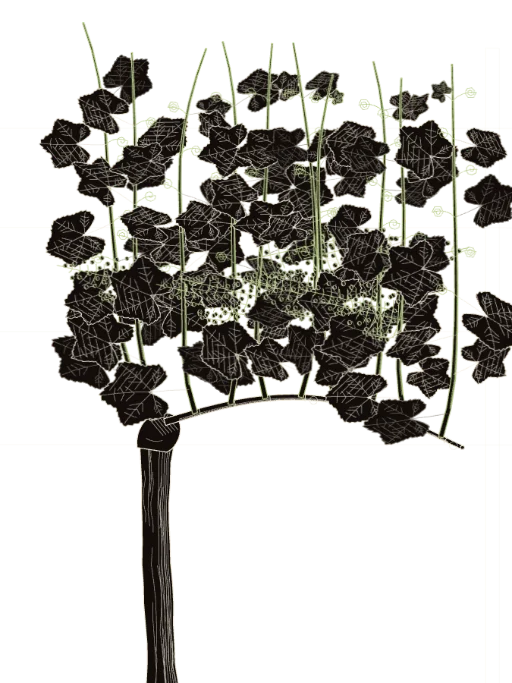
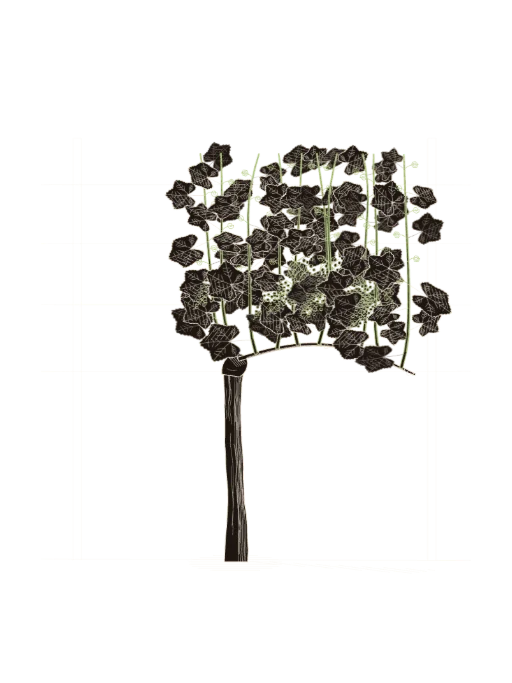
Spazio: pannelli come tavole montate, nome in Bodoni, fase più pulita
- anteprime rigenerate: inquadratura della stagione con zoom limitato (soggetto centrato,
  pianta mai tagliata a caso), forme riempite del colore della carta, tavola montata con
  margini e fascia libera per il nome; fermo-immagine al momento più rappresentativo
- nome della fase nel pannello in Bodoni Moda corsivo, allineato al bordo della tavola
- arco: pannelli più grandi e più distanziati, laterali nitidi e più bassi di tono, il
  centrale si fa avanti sotto il cursore; vigneto senza filo e linee compensate sugli
  schermi densi
- fase: fili e suolo del filare sfumano oltre i due pali, la pianta si sposta a destra
  (regia 62%) e la colonna dei titoli scende a sei colonne
- corretto il movimento ridotto: annullava la posizione dei grappoli (ora solo i tralci che cadono)

Claude-Session: https://claude.ai/code/session_01KQx1i4E29DbznxtBohKRiM

diff --git a/src/spazio/motore.ts b/src/spazio/motore.ts
@@ -7,7 +7,7 @@ import { FASI } from '@/core/tempo'
 import { FILM } from '@/components/film/registro'
 import { spazio } from './stato'
 import { PANNELLO_F, PANNELLO_V, SUOLO_F, SUOLO_V, TERRA_F, TERRA_V, VELO_F, VELO_V } from './shader'
-import { ASPETTO_CELLA, CELLE, VUOTA, caricaTexture, libera, ritaglio, textureNome, urlCiclo, urlFermo } from './texture'
+import { ASPETTO_CELLA, CELLE, FONT_NOME, PX_NOME, VUOTA, caricaTexture, libera, ritaglio, textureNome, urlCiclo, urlFermo } from './texture'
 
 /*
  * IL MOTORE DELLO SPAZIO: un solo canvas WebGL, un solo ciclo (core/ciclo.ts, il ticker di GSAP).
@@ -44,7 +44,7 @@ export type Disposizione = {
 export function disposizione(vw: number): Disposizione {
   return vw < 760
     ? { stretto: true, fov: 40, R: 3.6, vicino: 0.12, D: -0.7, w: 0.75, h: 1, passo: 0.8, camY: 0.12, guardaY: -0.1, suoloY: -0.74, kRiposo: 0.55 }
-    : { stretto: false, fov: 34, R: 5.2, vicino: 0.25, D: -1.4, w: 0.75, h: 1, passo: 0.88, camY: 0.26, guardaY: 0.0, suoloY: -0.74, kRiposo: 0.6 }
+    : { stretto: false, fov: 34, R: 5.2, vicino: 0.25, D: -1.9, w: 0.75, h: 1, passo: 0.95, camY: 0.24, guardaY: -0.02, suoloY: -0.72, kRiposo: 0.6 }
 }
 
 /** quanto i pannelli laterali si voltano verso il centro, oltre l'orientamento dell'arco */
@@ -130,6 +130,7 @@ class Motore {
   curva = molla()
   piega = molla()
   ritardo = molla()
+  avanti = molla()
   // lanterna
   mouse = { x: -1e4, y: -1e4, tx: -1e4, ty: -1e4, forza: 0, bersaglio: 0, ok: false }
   focus = -1
@@ -223,10 +224,9 @@ class Motore {
     const hPalo = 0.5
     for (let f = 0; f < nFile; f++) {
       const x = -largo / 2 + (f + 0.5) * passoFila
-      // filare a terra e filo, in tratti corti: un segmento lungo che passa dietro la camera si perde nel ritaglio
+      // filare a terra, in tratti corti: un segmento lungo che passa dietro la camera si perde nel ritaglio
       for (let z = 3; z > -lungo; z -= 2) {
         v.push(x, 0, z, x, 0, z - 2)
-        v.push(x, hPalo, z, x, hPalo, z - 2)
       }
       for (let z = 3 - ((f * 0.37) % passoPali); z > -lungo * 0.65; z -= passoPali) v.push(x, 0, z, x, hPalo, z)
     }
@@ -317,8 +317,8 @@ class Motore {
       })
     })
 
-    // i nomi si riscrivono quando Instrument Sans è caricato (prima la misura sarebbe sbagliata)
-    document.fonts?.ready.then(() => {
+    // i nomi si riscrivono quando il Bodoni corsivo è caricato (prima la misura sarebbe sbagliata)
+    Promise.resolve(document.fonts?.load(`italic 400 ${PX_NOME}px ${FONT_NOME}`)).then(() => {
       this.pannelli.forEach((p) => {
         const n = textureNome(FASI[p.i].titolo)
         libera(p.u.uNome.value as THREE.Texture)
@@ -485,6 +485,8 @@ class Motore {
     anima = passoMolla(this.curva, clamp(Math.abs(v) * 0.32, 0, 1.4), dt) || anima
     anima = passoMolla(this.piega, clamp(-Math.abs(v) * 0.05, -0.16, 0), dt) || anima
     anima = passoMolla(this.ritardo, clamp(-v * 0.055, -0.3, 0.3), dt) || anima
+    const sopraCentrale = this.sopra >= 0 && this.sopra === Math.round(arco) && st.livello === 'anno' && !st.volo
+    anima = passoMolla(this.avanti, sopraCentrale && !ridotto ? 1 : 0, dt) || anima
     if (Math.abs(vIst) > 1e-4) this.sporco = true
 
     const c = Math.round(clamp(arco, 0, FASI.length - 1))
@@ -570,15 +572,16 @@ class Motore {
 
     const su = this.suolo.material.uniforms
     su.uScorre.value = spazio.arco * L.passo * 0.85
-    su.uAlfa.value = 0.14 * (1 - ee)
+    // una linea di 1 pixel del dispositivo sullo schermo denso è sottile la metà: si compensa l'opacità
+    su.uAlfa.value = 0.13 * Math.pow(Math.min(2, this.dpr), 0.85) * (1 - ee)
     this.aggiornaLanterna(su)
     this.aggiornaLanterna(this.terra.material.uniforms)
     this.terra.material.uniforms.uAlfa.value = 1 - ee
 
     const aspettoSchermo = this.vw / this.H
     const pxUnita = this.H / (2 * (Rc + L.D) * Math.tan(fov / 2))
-    const nomeH = (13 * 1.5) / pxUnita // altezza della riga del nome, in unità del mondo
-    const margine = 16 / pxUnita
+    const nomeH = (PX_NOME * 1.5) / pxUnita // altezza della riga del nome, in unità del mondo
+    const margine = 18 / pxUnita
     const ridotto = preferenze.get().ridotto
 
     for (const p of this.pannelli) {
@@ -589,7 +592,7 @@ class Motore {
       // gli altri pannelli si aprono di lato e si spengono mentre la camera entra
       const allarga = aperto ? 0 : Math.sign(off || 1) * ee * 0.55
       const th = off * (L.passo / L.R) + allarga
-      const R = L.R - L.vicino * vic
+      const R = L.R - L.vicino * vic - (p.i === this.sopra ? this.avanti.x * 0.1 : 0)
       const ea = aperto ? e : 0
       const eac = clamp(ea)
       const visibile = Math.abs(off) < 5.5
@@ -607,7 +610,7 @@ class Motore {
       u.uPiega.value = this.piega.x * (1 - eac)
       u.uAspetto.value.set(w / L.h, 1)
       u.uFondo.value.copy(TERRA).lerp(NERO, eac)
-      u.uLuce.value = lerp(lerp(0.42, 1, vic), 1, eac)
+      u.uLuce.value = lerp(lerp(0.66, 1, vic) * clamp(1.1 - Math.abs(off) * 0.12), 1, eac)
       u.uAlfa.value = (aperto ? 1 : clamp(1 - ee * 1.6) * clamp(1.2 - Math.max(0, Math.abs(off) - 3.5) * 0.6)) * comp
       u.uFocus.value = this.focus === p.i ? 1 - eac : 0
       u.uBordo.value.set(1 / (pxUnita * w), 1 / (pxUnita * L.h))
@@ -650,8 +653,9 @@ class Motore {
       // il nome, in basso a sinistra, sempre alla stessa misura a schermo
       const hN = nomeH / L.h
       const wN = (nomeH * p.nomeAspetto) / w
-      u.uNomeRett.value.set(margine / w, 1 - margine / L.h - hN, wN, hN)
-      u.uNomeAlfa.value = clamp(1 - ea * 3) * lerp(0.55, 1, vic)
+      // allineato al bordo sinistro della tavola montata, al centro della fascia libera in basso
+      u.uNomeRett.value.set((0.08 * L.w) / w, Math.min(1 - margine / L.h - hN, 0.947 - hN / 2), wN, hN)
+      u.uNomeAlfa.value = clamp(1 - ea * 3) * lerp(0.6, 1, vic)
 
       // angoli a schermo (pannello piano): per il clic
       const hw = w / 2, hh = L.h / 2
@@ -710,6 +714,13 @@ class Motore {
       }
     }
     return migliore
+  }
+
+  /** Il pannello sotto il cursore: quello centrale si fa avanti di poco, come per farsi prendere. */
+  impostaSopra(i: number) {
+    if (i === this.sopra) return
+    this.sopra = i
+    this.sporca()
   }
 
   impostaFocus(i: number) {

diff --git a/src/components/vite/ViteTavola.tsx b/src/components/vite/ViteTavola.tsx
@@ -185,6 +185,14 @@ const Definizioni = memo(function Definizioni() {
           </symbol>
         ))}
         {/* due tracciati per acino: il contorno, e in un solo tracciato mezzaluna d'ombra e punto di luce */}
+        {/* fili e suolo del filare: pieni vicino alla pianta, sfumano nel buio da entrambi i lati
+            (non attraversano lo schermo dietro titoli e calendario) */}
+        <linearGradient id="v-sfuma-filare" gradientUnits="userSpaceOnUse" x1={SFUMA[0]} y1="0" x2={SFUMA[3]} y2="0">
+          <stop offset="0" style={{ stopColor: 'var(--avorio)', stopOpacity: 0 }} />
+          <stop offset={(SFUMA[1] - SFUMA[0]) / (SFUMA[3] - SFUMA[0])} style={{ stopColor: 'var(--avorio)', stopOpacity: 0.2 }} />
+          <stop offset={(SFUMA[2] - SFUMA[0]) / (SFUMA[3] - SFUMA[0])} style={{ stopColor: 'var(--avorio)', stopOpacity: 0.2 }} />
+          <stop offset="1" style={{ stopColor: 'var(--avorio)', stopOpacity: 0 }} />
+        </linearGradient>
         <symbol id="v-acino" overflow="visible">
           <circle r="1" className="v-acino" />
           <path d={`${ACINO_OMBRA}M-0.5 -0.4a0.12 0.12 0 1 0 0.24 0a0.12 0.12 0 1 0 -0.24 0`} className="v-incisione" />
@@ -194,8 +202,10 @@ const Definizioni = memo(function Definizioni() {
   )
 })
 
-/** Pali del filare ogni 520 unità: il filare continua fuori campo da entrambi i lati. */
-const PALI = Array.from({ length: 11 }, (_, k) => 64 + (k - 5) * 520)
+/** I due pali attorno alla pianta; il filare continua solo come accenno e sfuma (SFUMA). */
+const PALI = [64, 584]
+/** dove i fili del filare sono pieni (dal secondo al terzo valore) e dove spariscono */
+const SFUMA = [-40, 70, 584, 690] as const
 const ZOLLA = Array.from({ length: 40 }, (_, i): Pt => {
   const a = (i / 40) * Math.PI * 2
   return [302 + Math.cos(a) * 78, SUOLO + 6 + Math.sin(a) * 13]
@@ -205,7 +215,7 @@ const Fissi = memo(function Fissi() {
   // palo, fili, suolo: non cambiano mai. Linee sottili come la vite, mai barre scure
   return (
     <g className="v-fissi">
-      <path d={`M-3000 ${SUOLO + 2} C-1000 ${SUOLO - 6} 1400 ${SUOLO + 8} 3600 ${SUOLO}`} className="v-suolo" />
+      <path d={`M${SFUMA[0]} ${SUOLO + 2} C0 ${SUOLO - 4} 600 ${SUOLO + 6} ${SFUMA[3]} ${SUOLO}`} className="v-suolo" style={{ stroke: 'url(#v-sfuma-filare)' }} />
       {/* la zolla e l'ombra portata verso destra (luce da sinistra): solo tratteggio */}
       <path d={tratteggio(ZOLLA, 0, 3.2, 0.06)} className="v-suolo" />
       <path d={tratteggio(OMBRA_PORTATA, 8, 3, 0.04)} className="v-suolo" />
@@ -213,7 +223,7 @@ const Fissi = memo(function Fissi() {
         <path key={x} d={`M${x} 128 V${SUOLO + 2} M${x + 12} 128 V${SUOLO + 2} M${x} 128 H${x + 12}`} className="v-palo" />
       ))}
       {FILI.map((y) => (
-        <path key={y} d={`M-3000 ${y} L3600 ${y + 3}`} className="v-filo" />
+        <path key={y} d={`M${SFUMA[0]} ${y} L${SFUMA[3]} ${y + 0.5}`} className="v-filo" style={{ stroke: 'url(#v-sfuma-filare)' }} />
       ))}
     </g>
   )
@@ -332,12 +342,12 @@ function LegnoInverno({ g }: { g: number }) {
   return (
     <g>
       {viaCapoVecchio < 1 && (
-        <g style={{ opacity: 1 - viaCapoVecchio, transform: `translateY(${viaCapoVecchio * 30}px)` }}>
+        <g className="v-cade" style={{ opacity: 1 - viaCapoVecchio, transform: `translateY(${viaCapoVecchio * 30}px)` }}>
           {TRALCI_VECCHI.map((t, k) => {
             const via = tra(g, t.taglio, t.taglio + 2.2)
             if (via >= 1) return null
             return (
-              <g key={k} style={{ opacity: 1 - via, transform: `translateY(${(via * via * 60).toFixed(1)}px)` }}>
+              <g key={k} className="v-cade" style={{ opacity: 1 - via, transform: `translateY(${(via * via * 60).toFixed(1)}px)` }}>
                 <Legno pts={t.pts} w={[4.4, 1.3]} />
                 <Nodi pts={t.pts} ogni={0.1} larghezza={2.6} />
               </g>
@@ -348,7 +358,7 @@ function LegnoInverno({ g }: { g: number }) {
         </g>
       )}
       {taglioB < 1 && (
-        <g style={{ opacity: 1 - taglioB, transform: `translateY(${(taglioB * 40).toFixed(1)}px)` }}>
+        <g className="v-cade" style={{ opacity: 1 - taglioB, transform: `translateY(${(taglioB * 40).toFixed(1)}px)` }}>
           <Legno pts={puntiBEretto().slice(2)} w={[4.2, 1.2]} />
           <Nodi pts={puntiBEretto()} ogni={0.1} larghezza={2.5} />
         </g>

diff --git a/src/components/vite/camera.ts b/src/components/vite/camera.ts
@@ -45,12 +45,16 @@ export function regia(vw: number) {
   // desktop: la pianta a destra della colonna del nodo, suolo al 93% dell'altezza;
   // telefono: la pianta occupa il 60% alto dello schermo, il nodo sta sotto
   const base = stretto ? 1250 : 860
-  const ax = stretto ? 0.5 : 0.56
+  // desktop: la pianta a destra, fuori dalla colonna dei testi
+  const ax = stretto ? 0.5 : 0.62
   const ay = stretto ? 0.38 : 0.5
   const suoloY = stretto ? 0.6 : 0.93
   const largo: Punto = [330, 745 - (suoloY - ay) * base]
   return { base, ax, ay, largo }
 }
+
+/** Solo per le anteprime dei pannelli (src/Anteprima.tsx): limite allo zoom della stagione. */
+export const regolaCamera = { zoomMax: Infinity }
 
 // pratica selezionata: la camera va verso il suo luogo (0 = nessuna, 1 = arrivata)
 const verso = { k: 0, luogo: [0, 0] as Punto }
@@ -90,6 +94,12 @@ export function inquadratura(p: number, vw: number, H: number): Inquadratura {
     const t = smooth(tra(p, a.p, b.p))
     zoom = Math.exp(lerp(Math.log(a.zoom), Math.log(b.zoom), t)) // zoom percettivamente uniforme
     fuoco = lerpP(a.fuoco ?? r.largo, b.fuoco ?? r.largo, t)
+    if (zoom > regolaCamera.zoomMax) {
+      // il fuoco si avvicina all'inquadratura larga quanto lo zoom si riduce: il soggetto resta in campo
+      const k = Math.log(regolaCamera.zoomMax) / Math.log(zoom)
+      fuoco = lerpP(r.largo, fuoco, k)
+      zoom = regolaCamera.zoomMax
+    }
   }
   if (verso.k > 0) {
     fuoco = lerpP(fuoco, verso.luogo, verso.k * 0.75)

diff --git a/src/spazio/texture.ts b/src/spazio/texture.ts
@@ -72,13 +72,15 @@ export function ritaglio(ta: number, pa: number, cx = 0.5, cy = 0.5, cella?: { c
   return new THREE.Vector4((col + m + x * (1 - 2 * m)) / cella.c, (row + m + y * (1 - 2 * m)) / cella.r, (w * (1 - 2 * m)) / cella.c, (h * (1 - 2 * m)) / cella.r)
 }
 
-/** Il nome della fase come texture: Instrument Sans 500, avorio (l'alfa porta il segno). */
+/** Il nome della fase come texture: Bodoni Moda corsivo (stile annotazione, più grande), avorio. */
+export const FONT_NOME = '"Bodoni Moda Variable", "Bodoni Moda", Didot, Georgia, serif'
+export const PX_NOME = 20
 export function textureNome(testo: string) {
   const scala = 3
-  const px = 13 * scala
+  const px = PX_NOME * scala
   const c = document.createElement('canvas')
   const ctx = c.getContext('2d')!
-  const font = `500 ${px}px "Instrument Sans Variable", "Instrument Sans", "Helvetica Neue", Arial, sans-serif`
+  const font = `italic 400 ${px}px ${FONT_NOME}`
   ctx.font = font
   const w = Math.ceil(ctx.measureText(testo).width + 2 * scala)
   c.width = w
@@ -86,7 +88,6 @@ export function textureNome(testo: string) {
   ctx.font = font
   ctx.textBaseline = 'middle'
   ctx.fillStyle = '#ede4d3'
-  if ('letterSpacing' in ctx) (ctx as CanvasRenderingContext2D & { letterSpacing: string }).letterSpacing = `${0.02 * px}px`
   ctx.fillText(testo, scala, c.height / 2)
   const t = prepara(new THREE.Texture(c as unknown as HTMLImageElement), true)
   return { t, aspetto: c.width / c.height, altezzaPx: c.height / scala }

diff --git a/src/Anteprima.tsx b/src/Anteprima.tsx
@@ -1,6 +1,7 @@
 import { useLayoutEffect } from 'react'
 import { anno } from '@/core/anno'
 import { ViteNelPalco } from '@/components/vite/ViteNelPalco'
+import { regolaCamera } from '@/components/vite/camera'
 
 /*
  * Solo per `npm run anteprime` (scripts/anteprime.mjs): la tavola da sola, su fondo trasparente,
@@ -8,7 +9,10 @@ import { ViteNelPalco } from '@/components/vite/ViteNelPalco'
  */
 export function Anteprima() {
   useLayoutEffect(() => {
-    const p = Number(new URLSearchParams(location.search).get('p') ?? 0)
+    const qs = new URLSearchParams(location.search)
+    const p = Number(qs.get('p') ?? 0)
+    // le tavole dei pannelli: l'inquadratura della stagione, ma mai troppo stretta
+    regolaCamera.zoomMax = Number(qs.get('zoom') ?? Infinity)
     anno.set(p)
     document.documentElement.classList.add('anteprima')
     document.documentElement.dataset.svela = 'si'

diff --git a/src/stili/palco.css b/src/stili/palco.css
@@ -23,14 +23,15 @@
     linear-gradient(90deg, var(--nero-90) 0%, var(--nero-60) 24%, var(--nero-0) 46%),
     linear-gradient(0deg, var(--nero-90) 0%, var(--nero-0) 14%);
 }
-/* ── titoli: colonne 1-7 della griglia, dal margine superiore ───────────── */
+/* ── titoli: colonne 1-6 della griglia, sotto la voce dell'angolo ───────────── */
 .titoli {
   position: absolute;
   z-index: 6;
   left: var(--margine-x);
   /* sotto la voce dell'angolo in alto a sinistra */
   top: calc(var(--angolo) + var(--s-8));
-  width: var(--col-7);
+  /* sei colonne: la pianta sta a destra (camera.ts, regia) e il testo non le passa sopra */
+  width: calc(6 * var(--colonna) + 5 * var(--gutter));
   height: 0;
   pointer-events: none;
 }

diff --git a/src/spazio/input.ts b/src/spazio/input.ts
@@ -128,7 +128,11 @@ function muovi(e: PointerEvent) {
   const canvas = e.currentTarget as HTMLElement
   if (!trascina) {
     // sopra un pannello il cursore lo dice
-    if (e.pointerType === 'mouse' && spazio.get().livello === 'anno') canvas.style.cursor = motore.pannelloSotto(e.clientX, e.clientY) >= 0 ? 'pointer' : 'grab'
+    if (e.pointerType === 'mouse' && spazio.get().livello === 'anno') {
+      const i = motore.pannelloSotto(e.clientX, e.clientY)
+      canvas.style.cursor = i >= 0 ? 'pointer' : 'grab'
+      motore.impostaSopra(i)
+    }
     return
   }
   if (e.pointerId !== trascina.id || !lenis) return

diff --git a/src/stili/vite.css b/src/stili/vite.css
@@ -204,7 +204,7 @@ html.pratica-aperta .vite-chioma {
 }
 [data-movimento="ridotto"] .v-luogo-anello { animation: none; }
 /* movimento ridotto: i tralci tagliati svaniscono senza cadere */
-[data-movimento="ridotto"] .vite-svg g[style] { transform: none !important; }
+[data-movimento="ridotto"] .vite-svg .v-cade { transform: none !important; }
 
 
 /* il raccordo film ruota la vite: ciò che sta fuori dal viewBox resta disegnato negli angoli */
